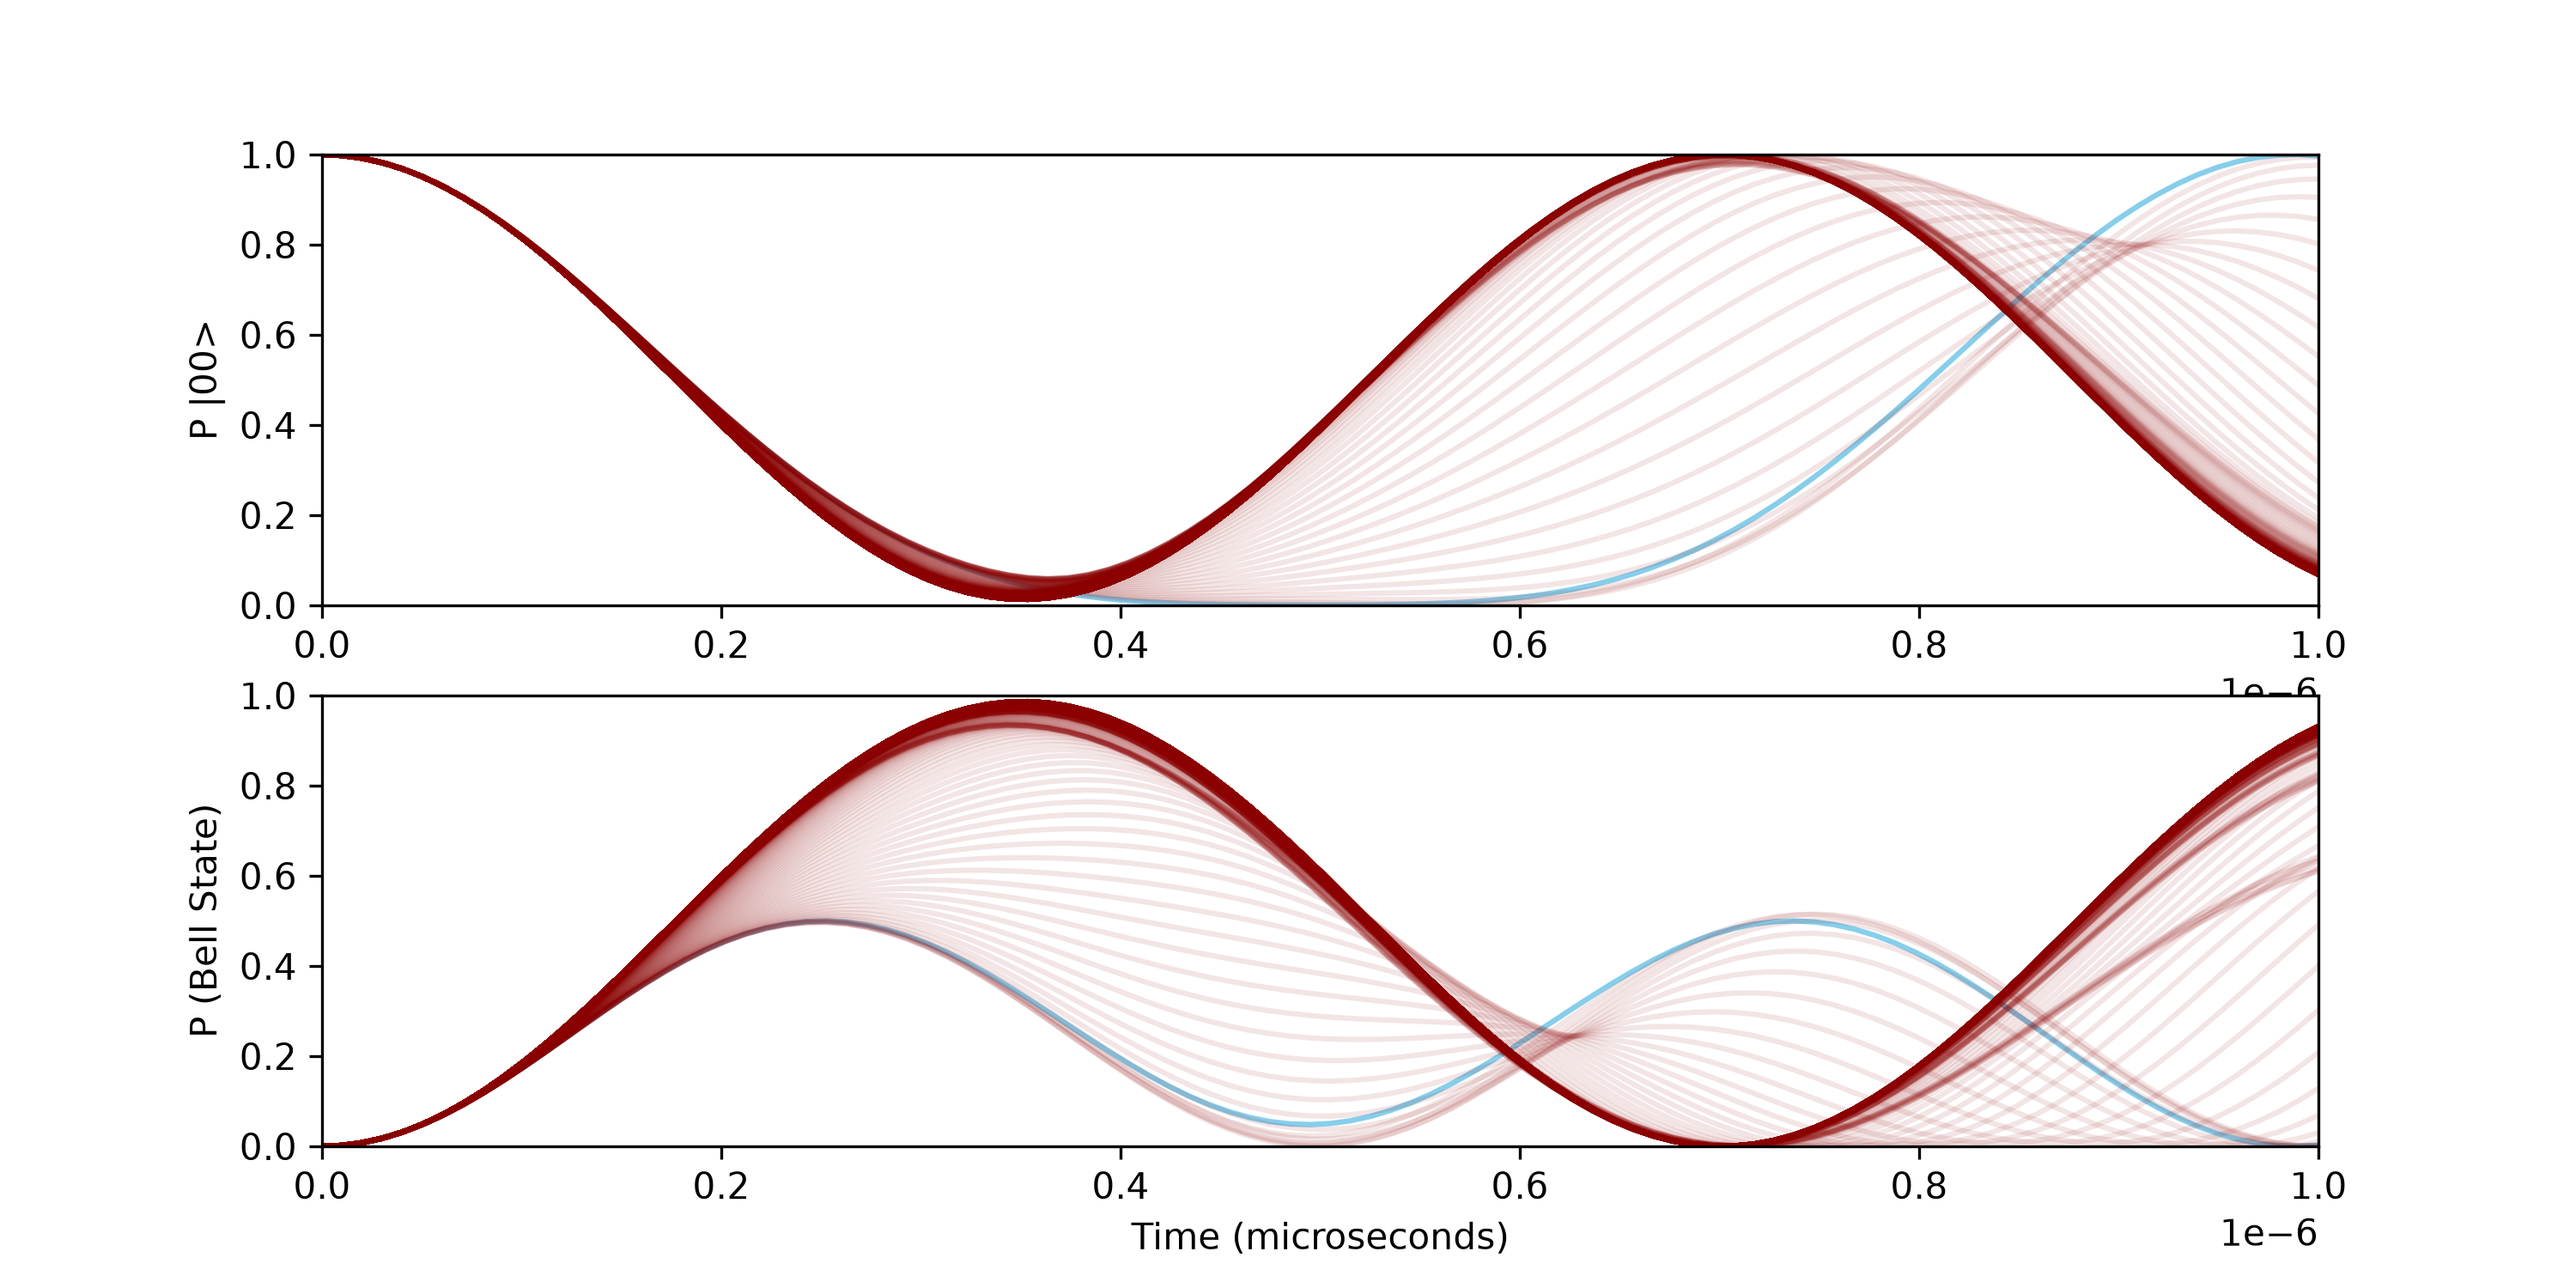
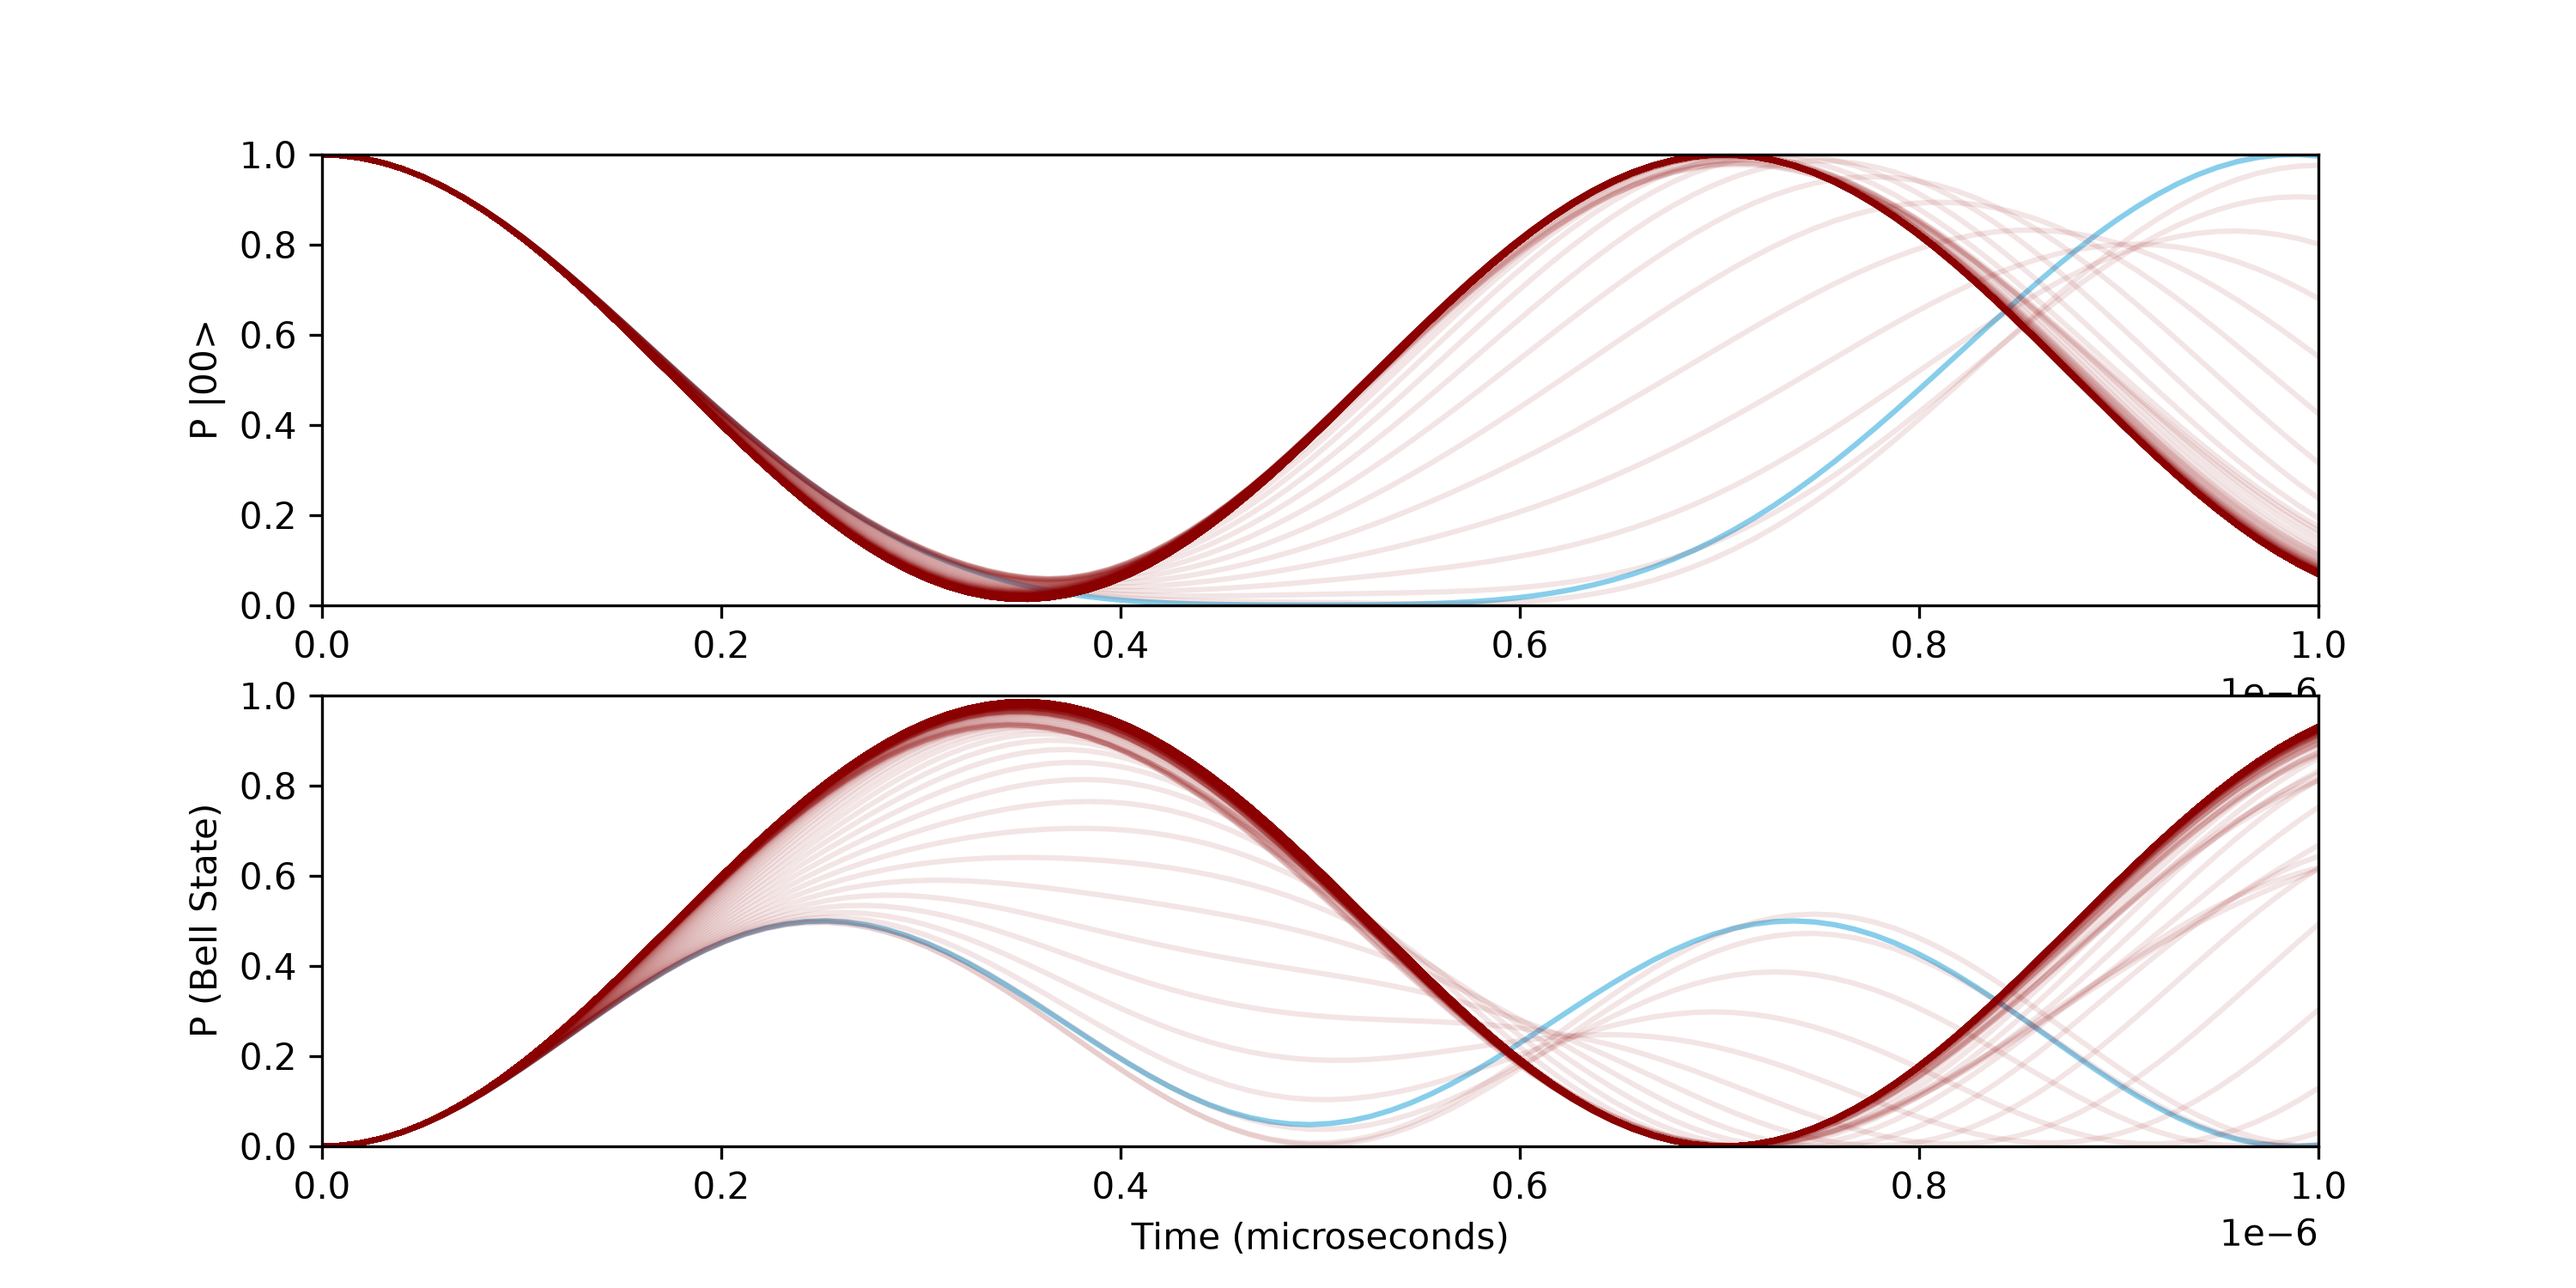
Started implimenting the time dependant solution

diff --git a/time_dependant.py b/time_dependant.py
@@ -1,0 +1,91 @@
+#Solves the time dependent Schrodinger equation for system with a given Hamiltonian and initial state. 
+#It calculates the time evolution of the state using Trotter -Suzuki decomposition
+
+### LIBRARIES ###
+
+import numpy as np
+from scipy import constants
+import matplotlib.pyplot as plt
+from time_independant import give_plot
+
+
+### CONSTANTS ###
+
+hbar = constants.hbar
+
+### INPUTS ###
+
+ohm = 2 * np.pi * 10**6         #rabi frequency
+
+delta_max = 2 * np.pi * 50e6
+
+t_max = 1e-6
+
+def delta(t):
+
+    return 8 * delta_max * ( (t-t_max/2) / t_max )**3
+
+phase = 0    
+
+voltages = 2 * np.pi * np.linspace(0, 100e6, 500)      
+
+time = np.linspace(0, 1e-6, 100) #time array
+#delta t is contained within this
+
+dt = 1e-6 / 100
+
+psi_0 = np.array([1, 0, 0, 0], dtype=complex) #initial state
+
+def main():
+
+    P_0 = {} #dict to store probabilities for each voltage
+    P_b = {} #dict to store probabilities for each voltage for bell
+
+    for v in voltages:
+
+        p_0 = [] #list to store probabilities for each time step
+        p_b = [] #list to store probabilities for each time step for bell
+
+        for t in time:
+
+            R, R_dagger, E1, E2, E3, E4 = eigen_t(v, t) #get eigenvectors and eigenvalues
+
+            D = np.array([  [np.exp(-1j*E1*dt), 0, 0, 0],
+                            [0, np.exp(-1j*E2*dt), 0, 0],
+                            [0, 0, np.exp(-1j*E3*dt), 0],
+                            [0, 0, 0, np.exp(-1j*E4*dt)]    ]) #diagonal matrix of time evolution
+            
+            psi_t = R @ D @ R_dagger @ psi_0 #time evolution of the state
+
+            c1 = psi_t[0] #coefficient of state 1
+
+            bell = 1/np.sqrt(2) * (np.array([0, 1, 1, 0], dtype=complex)) #bell state
+
+            p_0.append(np.abs(c1)**2) #append probability to list
+            p_b.append(np.abs(np.dot(bell, psi_t))**2) #append probability to list for bell state
+
+        P_0[v] = p_0 #append list to dictionary
+        P_b[v] = p_b #append list to dictionary for bell state
+
+    #Now we have a dictionary with keys as voltages and values as lists of probabilities. 
+    #We can now plot the probabilities for each voltage.
+
+    give_plot(P_0, P_b)
+
+
+def eigen_t(V,t):
+
+    H = hbar/2 * np.array([ [2*delta(t), ohm*np.exp(-1j*phase), ohm*np.exp(-1j*phase), 0], 
+                            [ohm*np.exp(1j*phase), 0, 0, ohm*np.exp(-1j*phase)], 
+                            [ohm*np.exp(1j*phase), 0, 0, ohm*np.exp(-1j*phase)], 
+                            [0, ohm*np.exp(1j*phase), ohm*np.exp(1j*phase), -2*delta(t)+2*V]]) #Hamiltonian
+
+    eigenvalues, eigenvectors = np.linalg.eigh(H) #eigenvalues and eigenvectors of the Hamiltonian
+
+    E1, E2, E3, E4 = eigenvalues #assigning eigenvalues to variables
+
+    R = eigenvectors #eigenvector matrix
+
+    R_dagger = np.conjugate(R.T) #conjugate transpose of the eigenvector matrix
+
+    return R, R_dagger, E1, E2, E3, E4

diff --git a/time_independant.py b/time_independant.py
@@ -19,7 +19,7 @@ delta = 10**6                   #detuning
 
 phase = 0    
 
-voltages = 2 * np.pi * np.linspace(0, 100e6, 1000)      
+voltages = 2 * np.pi * np.linspace(0, 100e6, 500)      
 
 time = np.linspace(0, 1e-6, 100) #time array
 
@@ -117,7 +117,6 @@ def give_plot(P_0, P_b):
     plt.savefig('time_independant.png', dpi=300) #save figure
 
     plt.show()
-
 
 
 if __name__ == "__main__":
